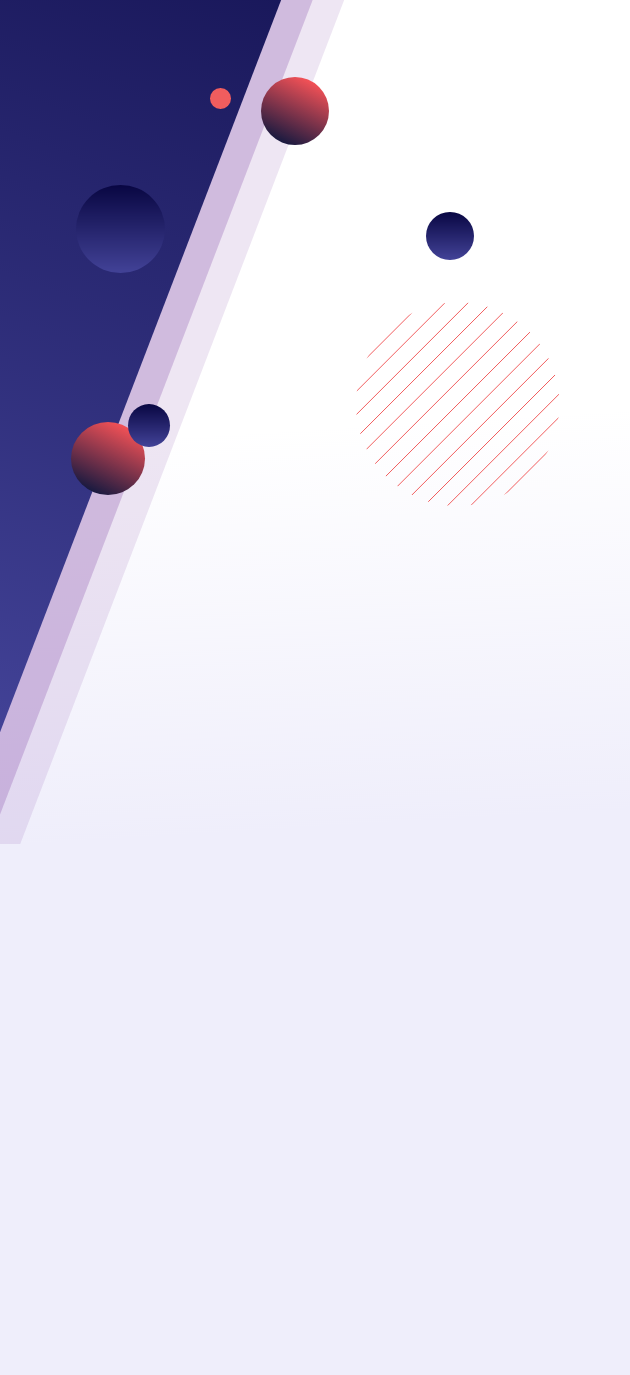
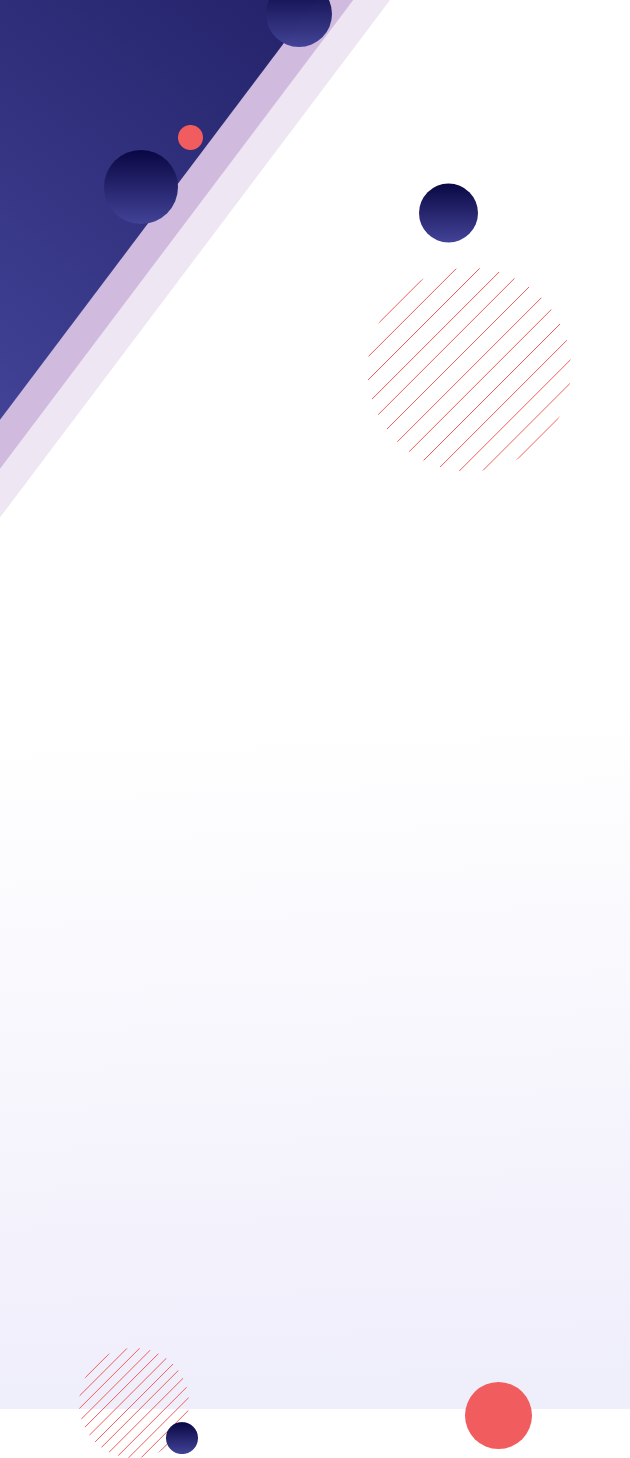
Update Contact page Hero bgs; Fix bug; SEO improvements;

diff --git a/src/components/hero-contact-form/HeroContactForm.js b/src/components/hero-contact-form/HeroContactForm.js
@@ -23,10 +23,10 @@ const BACKGROUNDS = {
   ),
   TabletBg: ({ alt, className }) => (
     <StaticImage
-      src="../../assets/pages/contact/hero-contact-bg-tablet.png"
+      src="../../assets/hero/hero-bg-tablet.png"
+      quality={100}
       placeholder="blurred"
       layout="fixed"
-      quality={100}
       alt={alt}
       className={className}
     />
@@ -98,7 +98,7 @@ const HeroContactForm = ({
 
   return (
     <div
-      className={`grid justify-items-center w-full relative overflow-hidden h-1375px sm+:h-screen md+:hero-contact-height-web lg+:hero-contact-height-webhd ${className}`}
+      className={`grid justify-items-center w-full relative overflow-hidden h-1458px sm+:hero-contact-height-tablet md+:hero-contact-height-web lg+:hero-contact-height-webhd ${className}`}
       {...otherProps}
     >
       <div className="absolute bottom-0px -z-10 w-max max-w-none sm+:hidden">
@@ -124,7 +124,7 @@ const HeroContactForm = ({
 
       <form
         id="contact-form"
-        className="self-end md+:self-center grid hero-contact-grid-mobile sm+:hero-contact-grid-tablet md+:hero-contact-web-grid lg+:hero-contact-webhd-grid mx-36px mb-50px md+:mb-0px mt-70px md+:-mt-90px lg+:-mt-117px"
+        className="self-end md+:self-center grid hero-contact-grid-mobile sm+:hero-contact-grid-tablet md+:hero-contact-web-grid lg+:hero-contact-webhd-grid mx-36px mb-100px sm+:mb-123px md+:mb-0px mt-70px md+:-mt-90px lg+:-mt-117px"
         onSubmit={formik.handleSubmit}
       >
         <div className="hero-contact-title-area w-280px sm+:w-414px md+:w-auto sm+:justify-self-center md+:justify-self-start sm+:text-center md+:text-left">

diff --git a/src/components/hero-home/HeroHome.js b/src/components/hero-home/HeroHome.js
@@ -80,12 +80,12 @@ const HeroHome = ({ title, subtitle, arrowText, className, storybookBackgroundsM
         <WebHdBg alt="hero background" />
       </div>
 
-      <div className="w-full xl:max-w-screen-xl justify-self-start xl:justify-self-center grid justify-items-center md+:justify-items-start">
-        <div className="md+:ml-139px lg+:ml-140px max-w-318px sm+:max-w-500px md+:max-w-535px lg+:max-w-812px">
+      <div className="grid w-full xl:max-w-screen-xl justify-self-start xl:justify-self-center justify-items-center md+:justify-items-start">
+        <div className="md+:col-span-full md+:row-span-full md+:self-center md+:ml-139px lg+:ml-140px max-w-318px sm+:max-w-500px md+:max-w-535px lg+:max-w-812px">
           <Text
             typography="h1"
             color="text-white"
-            className="text-center md+:text-left mt-147px sm+:mt-270px md+:mt-262px lg+:mt-446px"
+            className="text-center md+:text-left mt-147px sm+:mt-270px md+:mt-0px"
           >
             {title && title.raw ? renderRichText(title, customRenderOptions) : title}
           </Text>
@@ -97,7 +97,7 @@ const HeroHome = ({ title, subtitle, arrowText, className, storybookBackgroundsM
             {subtitle}
           </Text>
         </div>
-        <div className="justify-self-center self-end grid justify-items-center mt-30px mb-50px">
+        <div className="md+:col-span-full md+:row-span-full justify-self-center self-end grid justify-items-center mt-30px mb-50px">
           <Text typography="learn-more" color="text-white" className="text-center">
             {arrowText}
           </Text>

diff --git a/src/components/fractional-approach/FractionalApproach.js b/src/components/fractional-approach/FractionalApproach.js
@@ -1,5 +1,6 @@
 import React from "react";
 import PropTypes from "prop-types";
+import { StaticImage } from "gatsby-plugin-image";
 import { graphql } from "gatsby";
 
 import Text from "../basic/text/Text";
@@ -15,8 +16,6 @@ import ImageFABackground4Tablet from "../../assets/pages/home/fractional-approac
 import ImageFABackground4Web from "../../assets/pages/home/fractional-approach-bg-4-web.svg";
 import ImageFABackground4WebHd from "../../assets/pages/home/fractional-approach-bg-4-webhd.svg";
 import ImageFABackground5 from "../../assets/pages/home/fractional-approach-bg-5.svg";
-
-import ImageFractionalApproach from "../../assets/pages/home/fractional-approach.svg";
 
 import "./FractionalApproach.css";
 
@@ -91,12 +90,15 @@ const FractionalApproach = ({
           <Text text={description} />
         </div>
         <div className="area-fa-image grid justify-items-center md:justify-items-start md:mr-17px md:mt-45px lg:mt-38px xl:mt-55px lg:mb-18px xl:mb-124px">
-          <img
-            src={ImageFractionalApproach}
+          <StaticImage
+            src="../../assets/pages/home/fractional-approach.svg"
             alt="Fractional Approach"
-            width="318"
-            height="94"
+            width="388"
+            height="114"
             className="mt-29px lg:mt-12px md:w-328px xl:w-388px"
+            quality={100}
+            placeholder="blurred"
+            layout="constrained"
           />
         </div>
         <div className="area-fa-stats mt-33px md:mt-80px lg:mt-53px xl:mt-83px lg:mb-18px md:ml-8px lg:ml-0px text-center">

diff --git a/src/components/analytics-features/AnalyticsFeatures.js b/src/components/analytics-features/AnalyticsFeatures.js
@@ -1,11 +1,11 @@
 import React from "react";
 import PropTypes from "prop-types";
+import { StaticImage } from "gatsby-plugin-image";
 import { graphql } from "gatsby";
 
 import Text from "../basic/text/Text";
 import Border from "../basic/border/Border";
 
-import AnalyticsFeaturesImage from "../../assets/pages/analytics/analytics-features-image.png";
 import AnalyticsFeaturesTablet from "../../assets/pages/analytics/analytics-features-bg-tablet.svg";
 import AnalyticsFeaturesWeb from "../../assets/pages/analytics/analytics-features-bg-web.svg";
 import AnalyticsFeaturesWebHD from "../../assets/pages/analytics/analytics-features-bg-webhd.svg";
@@ -55,12 +55,15 @@ const AnalyticsFeatures = ({
           >
             {title}
           </Text>
-          <img
-            src={AnalyticsFeaturesImage}
+          <StaticImage
+            src="../../assets/pages/analytics/analytics-features-image.png"
             alt="analytics features"
-            width="318"
-            height="199"
+            width="812"
+            height="509"
             className="w-full mt-50px md:mt-75px lg:mt-0px lg:analytics-features-image-area"
+            quality={100}
+            placeholder="blurred"
+            layout="constrained"
           />
         </div>
 

diff --git a/src/components/pie-chart/PieChart.js b/src/components/pie-chart/PieChart.js
@@ -1,10 +1,9 @@
 import React from "react";
 import PropTypes from "prop-types";
+import { StaticImage } from "gatsby-plugin-image";
 import { graphql } from "gatsby";
 
 import Text from "../basic/text/Text";
-
-import PieChartImage from "../../assets/pages/crm/pie-chart-img.png";
 
 import PieChartBackgroundMobile from "../../assets/pages/crm/pie-chart-bg-mobile.svg";
 import PieChartBackgroundTablet1 from "../../assets/pages/crm/pie-chart-bg-tablet-1.svg";
@@ -104,12 +103,15 @@ const PieChart = ({
               {centerBlockContent}
             </Text>
           </div>
-          <img
-            src={PieChartImage}
+          <StaticImage
+            src="../../assets/pages/crm/pie-chart-img.png"
             alt="diagram"
-            width="318"
-            height="160"
-            className="justify-self-center w-full lg:w-457px xl:w-690px mt-285px md:mt-336px lg:mt-269px xl:mt-357px"
+            width="690"
+            height="362"
+            className="justify-self-center w-full lg:w-457px xl:w-690px mt-285px md:mt-336px lg:mt-269px xl:mt-357px h-166px md:h-353px lg:h-239px xl:h-362px"
+            quality={100}
+            placeholder="blurred"
+            layout="constrained"
           />
         </div>
       </div>

diff --git a/tailwind.config.js b/tailwind.config.js
@@ -235,6 +235,7 @@ module.exports = {
       "233px": "23.3rem",
       "236px": "23.6rem",
       "237px": "23.7rem",
+      "239px": "23.9rem",
       "241px": "24.1rem",
       "242px": "24.2rem",
       "247px": "24.7rem",
@@ -274,9 +275,11 @@ module.exports = {
       "344px": "34.4rem",
       "350px": "35rem",
       "352px": "35.2rem",
+      "353px": "35.3rem",
       "354px": "35.4rem",
       "357px": "35.7rem",
       "360px": "36rem",
+      "362px": "36.2rem",
       "370px": "37rem",
       "374px": "37.4rem",
       "377px": "37.7rem",
@@ -403,9 +406,9 @@ module.exports = {
       "1265px": "126.5rem",
       "1338px": "133.8rem",
       "1366px": "136.6rem",
-      "1375px": "137.5rem",
       "1400px": "140rem",
       "1453px": "145.3rem",
+      "1458px": "145.8rem",
       "1640px": "164rem",
       "1691px": "169.1rem",
       "1900px": "190rem",

diff --git a/src/pages/crm.js b/src/pages/crm.js
@@ -19,7 +19,7 @@ export default function CRMPage({ data }) {
   return (
     <Seo seo={contentfulCrmPage}>
       <SiteHeader />
-      <Hero type="type2" title={contentfulCrmPage.heroTitle} subtitle={contentfulCrmPage.heroTitle} />
+      <Hero type="type2" title={contentfulCrmPage.heroTitle} subtitle={contentfulCrmPage.heroSubtitle} />
       <WhatIsCRM
         title1={whatIsCrm.title1}
         subtitle1={whatIsCrm.subtitle1}

diff --git a/src/components/hero-contact-form/HeroContactForm.css b/src/components/hero-contact-form/HeroContactForm.css
@@ -80,6 +80,10 @@
       grid-area: HeroContactSubmit;
     }
 
+    .hero-contact-height-tablet {
+      height: calc(100vh + 73px);
+    }
+
     .hero-contact-height-web {
       height: calc(100vh + 90px);
     }
